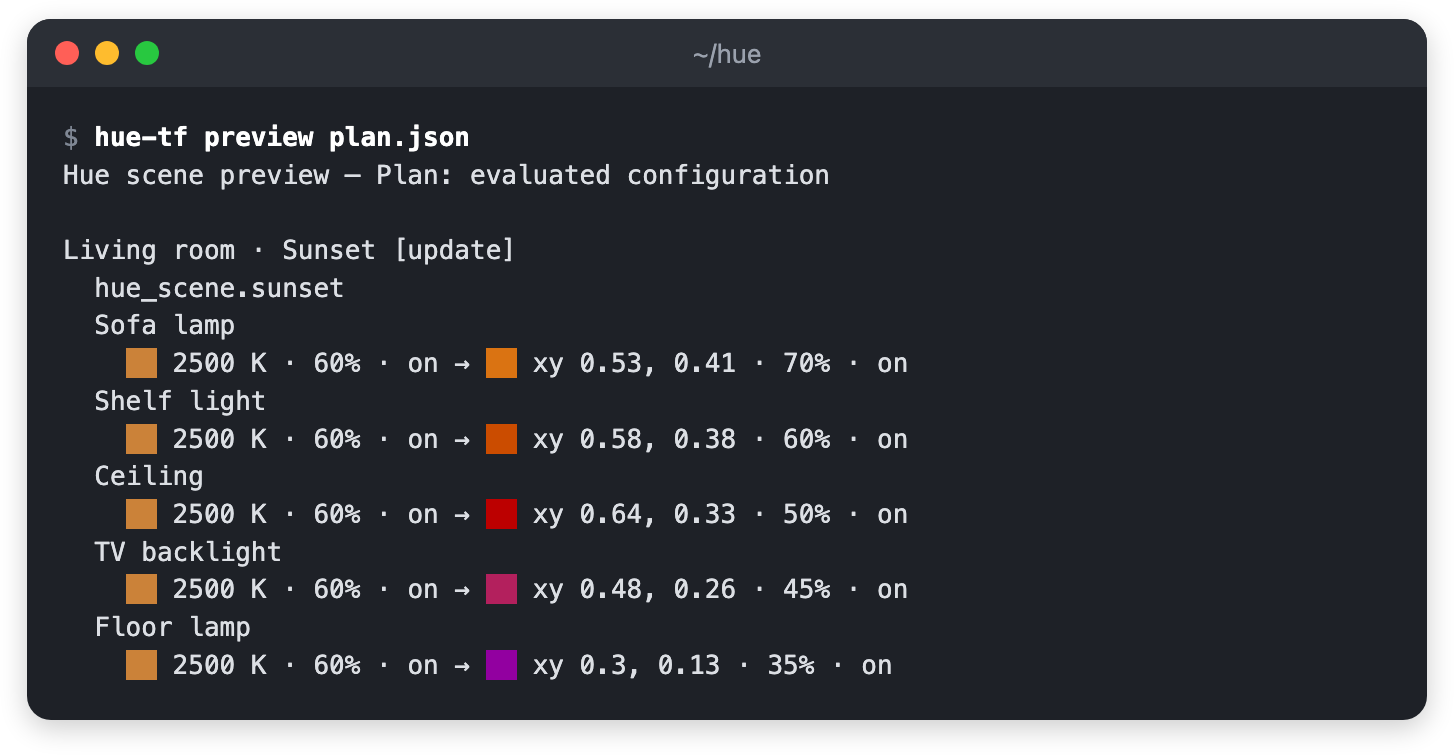
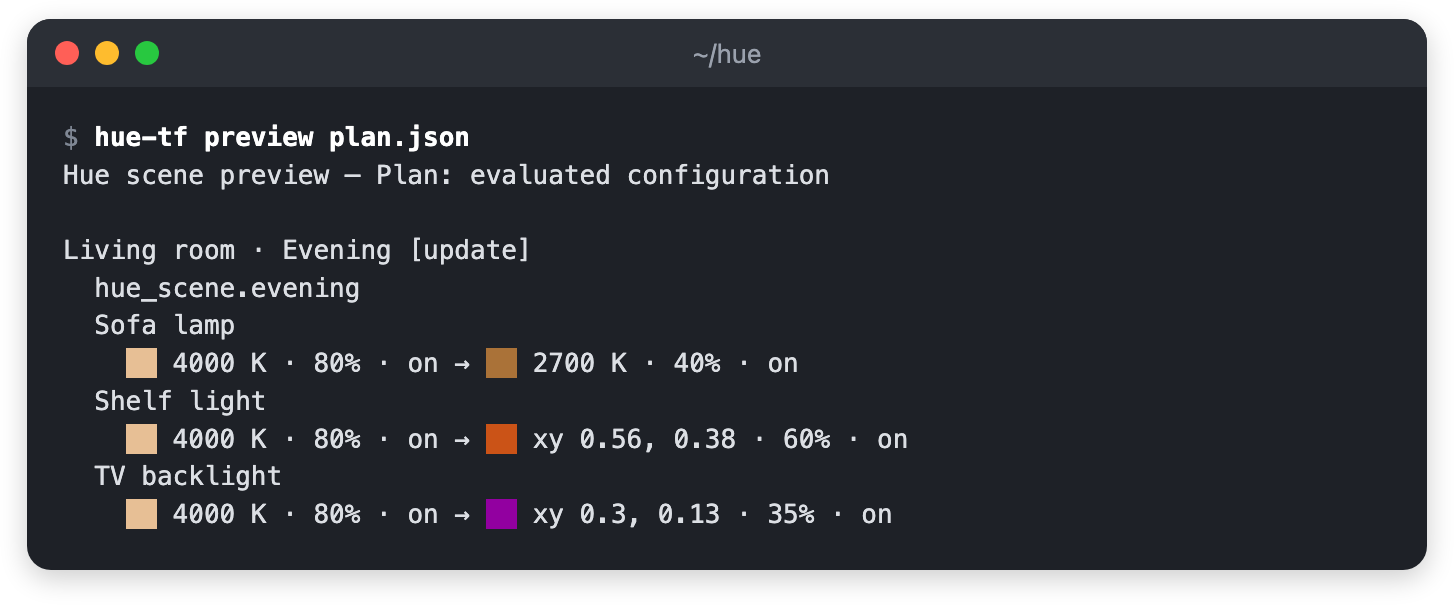
Show one plan in all the README images
The plan image showed a scene with two lights, and the previews another
scene with five. Show the same plan, a scene with three lights, in all
three.

diff --git a/README.md b/README.md
@@ -7,7 +7,7 @@ behaviors, and device names and icons.
 **Add lights and devices using the Hue app. This provider manages resources that
 are already registered on a Hue bridge.**
 
-<img src="docs/images/plan.png" width="720" alt="terraform plan output for a Hue scene: one light becomes warmer and dimmer, and another changes from white to orange">
+<img src="docs/images/plan.png" width="720" alt="terraform plan output for a Hue scene: one light becomes warmer and dimmer, and two others change from white to orange and purple">
 
 ## Getting started
 
@@ -128,11 +128,12 @@ full reference.
 | `hue-tf identify UUID` | [Make a device signal](docs/runtime-commands.md) so you can find it |
 
 `hue-tf preview` shows each light's color in a scene before and after a plan,
-in the terminal or as an HTML page:
+in the terminal or as an HTML page. Here it shows the plan at the top of this
+page:
 
-<img src="docs/images/preview-terminal.png" width="720" alt="hue-tf preview in a terminal, showing the colors of the five lights in a scene before and after a plan">
+<img src="docs/images/preview-terminal.png" width="720" alt="hue-tf preview in a terminal, showing the colors of the scene's three lights before and after the plan">
 
-<img src="docs/images/preview-html.png" width="720" alt="The HTML page that hue-tf preview writes for the same scene">
+<img src="docs/images/preview-html.png" width="720" alt="The HTML page that hue-tf preview writes for the same plan">
 
 ## Development
 
